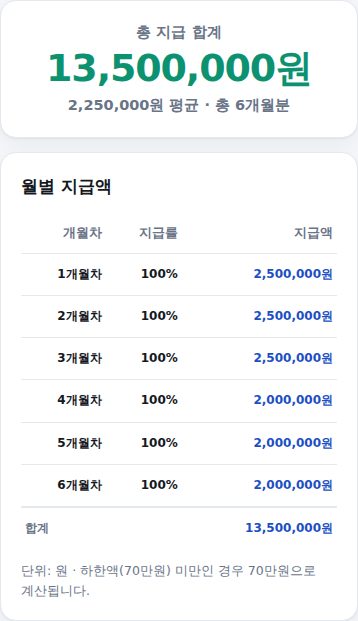
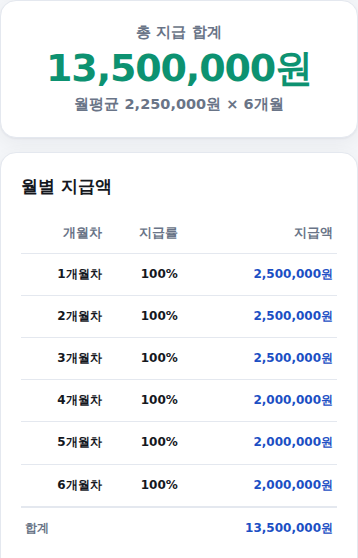
배포 전 재검토로 발견한 버그 수정 (육아휴직급여 계산기)
- 개월수 입력창에 소수점(예: "6.5") 입력시 자릿수가 그대로 붙어버려
  65개월로 잘못 계산되던 문제 수정 (숫자만 남도록 실시간 필터링)
- 형태 선택에 따라 숨겨졌다 보였다 하던 안내문구(#type-help)를
  사이트 전역 규칙(q-help는 항상 노출)에 맞춰 항상 보이도록 수정
- 통상임금·기간을 비웠을 때 안내 문구 없이 "0원"만 뜨던 것을
  다른 계산기처럼 "~를 입력해주세요" 경고를 보여주도록 추가
- 총 지급 합계 보조문구를 "월평균 OOO원 × N개월" 형식으로 통일
  (다른 계산기의 "1일 OOO원 × N일" 표기와 동일한 패턴)
- 쓰이지 않던 CSS 규칙(.headline-note) 제거
- 위 레이아웃 변경(안내문구 상시노출)에 맞춰 이용법 페이지
  스크린샷 3장 재촬영 및 width/height 속성 갱신
- Playwright 검증 21개 항목 전체 통과(회귀 없음 확인)

Claude-Session: https://claude.ai/code/session_01FHtNtifBFhcLFReKxE7fCr

diff --git a/parental-leave.js b/parental-leave.js
@@ -65,7 +65,6 @@ var $ = function (id) { return document.getElementById(id); };
 
 var el = {
   type: document.querySelectorAll('input[name="type"]'),
-  typeHelp: $('type-help'),
   wage: $('wage'), wageEcho: $('wage-echo'),
   wageChips: document.querySelectorAll('.chips[role="group"][aria-label="빠른 금액 선택"] .chip'),
   months: $('months'),
@@ -80,6 +79,15 @@ function attachMoneyFormat(input, onChange) {
     var caretFromEnd = input.value.length - input.selectionStart;
     var digits = onlyDigits(input.value);
     input.value = digits ? comma(digits) : '';
+    var pos = Math.max(0, input.value.length - caretFromEnd);
+    input.setSelectionRange(pos, pos);
+    onChange();
+  });
+}
+function attachIntegerFormat(input, onChange) {
+  input.addEventListener('input', function () {
+    var caretFromEnd = input.value.length - input.selectionStart;
+    input.value = onlyDigits(input.value);
     var pos = Math.max(0, input.value.length - caretFromEnd);
     input.setSelectionRange(pos, pos);
     onChange();
@@ -103,8 +111,6 @@ function render() {
   var monthsRaw = readMonths(el.months);
   var type = currentType();
 
-  el.typeHelp.style.display = type === 'sixsix' ? 'block' : 'none';
-
   el.wageEcho.innerHTML = wage > 0 ? '<strong>' + readable(wage) + '</strong>' : '';
 
   var warnParts = [];
@@ -120,9 +126,11 @@ function render() {
     el.headline.textContent = '0원';
     el.headSub.textContent = '-';
     el.rows.innerHTML = '';
+    if (!(wage > 0)) warnParts.push('통상임금을 입력해주세요.');
+    if (!(monthsRaw >= 1)) warnParts.push('육아휴직 기간(개월)을 입력해주세요.');
   } else {
     el.headline.textContent = comma(r.total) + '원';
-    el.headSub.textContent = comma(Math.round(r.total / months)) + '원 평균 · 총 ' + months + '개월분';
+    el.headSub.textContent = '월평균 ' + comma(Math.round(r.total / months)) + '원 × ' + months + '개월';
 
     el.rows.innerHTML = r.rows.map(function (row) {
       return '<tr><td>' + row.month + '개월차</td><td>' + Math.round(row.rate * 100) + '%</td><td class="pay">' + comma(row.pay) + '원</td></tr>';
@@ -135,7 +143,7 @@ function render() {
 
 /* ---------- 시작 ---------- */
 attachMoneyFormat(el.wage, render);
-el.months.addEventListener('input', render);
+attachIntegerFormat(el.months, render);
 Array.prototype.forEach.call(el.type, function (radio) {
   radio.addEventListener('change', render);
 });

diff --git a/parental-leave-guide.html b/parental-leave-guide.html
@@ -62,7 +62,7 @@
       <li class="step">
         <p class="step-title">육아휴직 형태 선택</p>
         <p><strong>일반 육아휴직</strong>과 <strong>6+6 부모육아휴직</strong> 중 해당하는 형태를 골라주세요. 자녀가 생후 18개월 이내이고 부모가 함께(동시 또는 순차) 육아휴직을 사용한다면 6+6 부모육아휴직제가 적용되고, 그렇지 않으면 일반 육아휴직급여가 적용됩니다.</p>
-        <img class="step-shot" src="parental-guide-1-type.png" alt="육아휴직 형태 선택 화면" loading="lazy" width="358" height="126">
+        <img class="step-shot" src="parental-guide-1-type.png" alt="육아휴직 형태 선택 화면" loading="lazy" width="358" height="205">
         <p class="step-caption">육아휴직 형태 선택 화면</p>
       </li>
 
@@ -76,7 +76,7 @@
       <li class="step">
         <p class="step-title">결과 확인 — 총 합계·월별 지급액</p>
         <p>맨 위에 <strong>총 지급 합계</strong>가 크게 나오고, 아래 표에서 <strong>개월차별 지급률과 지급액</strong>을 확인할 수 있습니다. 6+6 부모육아휴직제를 선택했다면 7개월차부터는 자동으로 일반 육아휴직급여 규정으로 전환되어 계산됩니다.</p>
-        <img class="step-shot" src="parental-guide-3-result.png" alt="총 지급 합계와 월별 지급액 결과 화면" loading="lazy" width="358" height="621">
+        <img class="step-shot" src="parental-guide-3-result.png" alt="총 지급 합계와 월별 지급액 결과 화면" loading="lazy" width="358" height="558">
         <p class="step-caption">결과 화면</p>
       </li>
     </ol>

diff --git a/parental-leave.html b/parental-leave.html
@@ -25,8 +25,6 @@
   .year-field input:focus { outline: none; border-color: var(--brand); }
   .year-field .unit { position: absolute; right: 14px; top: 50%; transform: translateY(-50%); font-size: 14px; color: var(--muted); }
 
-  .headline-card .headline-note { margin: 6px 0 0; font-size: 13px; color: var(--muted); }
-
   table.cmp td.pay { font-weight: 700; color: var(--brand-ink); }
   table.cmp tr.sum th, table.cmp tr.sum td { border-top: 2px solid var(--line); font-weight: 700; }
 
